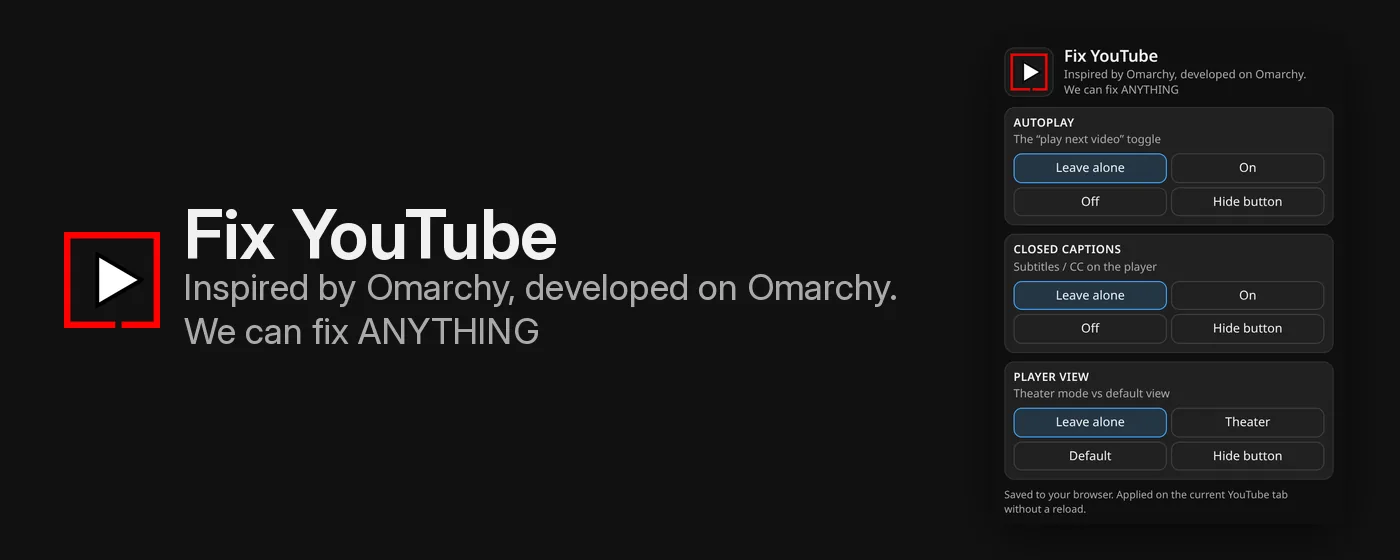
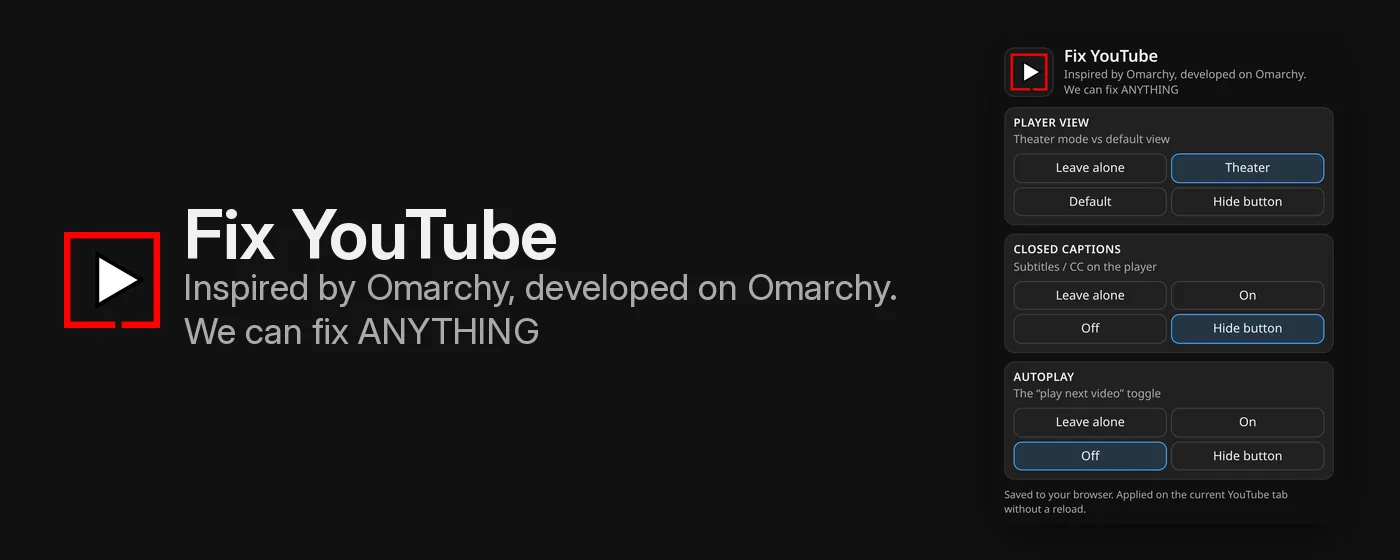
Put Fix YouTube in the top row and widen the project page
Condense the home-page hero to three category cards, with Browser
Extensions as the third and #extensions on that card, and drop the
duplicate lower section. Widen and center the Fix YouTube text column
so it balances the hero and feature images, and swap in the new
theater-first marquee.

Changed region(s): [[0.7064, 0.6679, 0.9214, 0.85], [0.7064, 0.4857, 0.9521, 0.6375], [0.7064, 0.2125, 0.9521, 0.3643]]

diff --git a/index.html b/index.html
@@ -93,15 +93,15 @@
 
   .split-hero {
     display: grid;
-    grid-template-columns: 1fr 1fr;
-    gap: 20px;
+    grid-template-columns: repeat(3, minmax(0, 1fr));
+    gap: 16px;
     padding: 48px 0 24px;
   }
   .hero-panel {
     background: var(--panel);
     border: 1px solid var(--border);
     border-radius: 6px;
-    padding: 28px 26px 24px;
+    padding: 22px 18px 18px;
     display: flex;
     flex-direction: column;
     min-width: 0;
@@ -112,25 +112,30 @@
     border-color: rgba(232, 176, 120, 0.38);
     box-shadow: 0 12px 40px rgba(0, 0, 10, 0.25), 0 16px 36px rgba(224, 120, 40, 0.06);
   }
-  .prompt { color: var(--dim); font-size: 0.82rem; margin: 0 0 14px; }
+  .hero-panel.extensions {
+    border-color: rgba(224, 107, 107, 0.4);
+    box-shadow: 0 12px 40px rgba(0, 0, 10, 0.25), 0 16px 36px rgba(224, 80, 80, 0.06);
+  }
+  .prompt { color: var(--dim); font-size: 0.78rem; margin: 0 0 12px; }
   .prompt b { color: var(--accent); font-weight: 500; }
   .hero-panel.ai .prompt b { color: var(--warm2); }
+  .hero-panel.extensions .prompt b { color: #ffb3b3; }
   .hero-panel h2 {
     font-family: var(--display);
     font-weight: 700;
-    font-size: clamp(1.85rem, 4.2vw, 2.7rem);
-    line-height: 1.08;
-    margin: 0 0 14px;
+    font-size: clamp(1.25rem, 2.1vw, 1.85rem);
+    line-height: 1.12;
+    margin: 0 0 10px;
     text-shadow: 0 0 18px rgba(130, 251, 156, 0.18);
   }
   .hero-panel.ai h2 { text-shadow: 0 0 18px rgba(224, 146, 74, 0.22); }
+  .hero-panel.extensions h2 { text-shadow: 0 0 18px rgba(224, 107, 107, 0.22); }
   .hero-panel .lede {
     color: var(--dim);
-    font-size: 0.98rem;
+    font-size: 0.88rem;
     margin: 0;
-    max-width: 42ch;
   }
-  .cta { display: flex; gap: 12px; flex-wrap: wrap; margin-top: auto; padding-top: 26px; }
+  .cta { display: flex; gap: 12px; flex-wrap: wrap; margin-top: auto; padding-top: 18px; }
   .btn {
     display: inline-block;
     padding: 11px 20px;
@@ -150,6 +155,12 @@
     border-color: var(--warm);
   }
   .btn.warm:hover { box-shadow: 0 0 16px rgba(224, 146, 74, 0.4); }
+  .btn.hot {
+    background: #e06b6b;
+    color: #120000;
+    border-color: #e06b6b;
+  }
+  .btn.hot:hover { box-shadow: 0 0 16px rgba(224, 107, 107, 0.4); }
 
   section { padding: 48px 0; }
   #omarchy, #ai, #extensions, #hangar, #about { scroll-margin-top: 16px; }
@@ -167,9 +178,6 @@
     display: grid;
     grid-template-columns: repeat(auto-fit, minmax(300px, 1fr));
     gap: 20px;
-  }
-  .tools.single {
-    grid-template-columns: repeat(auto-fill, minmax(300px, 1fr));
   }
   .tool {
     background: var(--panel);
@@ -471,8 +479,13 @@
   footer a { color: var(--dim); }
   footer a:hover { color: var(--accent); }
 
-  @media (max-width: 800px) {
+  @media (max-width: 900px) {
     .split-hero { grid-template-columns: 1fr; padding: 32px 0 8px; }
+    .hero-panel h2 { font-size: clamp(1.5rem, 6vw, 2.1rem); }
+    .hero-panel .lede { font-size: 0.95rem; }
+  }
+
+  @media (max-width: 800px) {
     .caravan-spot {
       grid-template-columns: minmax(0, 1fr);
       grid-template-areas:
@@ -535,6 +548,14 @@
       <p class="lede">Run AI models on your own Macs, together. Open source, MLX and GGUF — that’s Caravan.</p>
       <div class="cta">
         <a class="btn warm" href="#ai">See Caravan</a>
+      </div>
+    </div>
+    <div class="hero-panel extensions" id="extensions">
+      <div class="prompt"><b>bren@omarchy</b> ~ $ ls ~/extensions</div>
+      <h2>Browser Extensions</h2>
+      <p class="lede">YouTube won’t stay in theater mode, and then the comments are right in your face. Fix YouTube keeps the wide player.</p>
+      <div class="cta">
+        <a class="btn hot" href="fix-youtube.html">See Fix YouTube</a>
       </div>
     </div>
   </header>
@@ -633,33 +654,6 @@ omarchy bar put bren.flyover --section right</pre><button class="copy" type="but
       <div class="cmd"><pre>(set -o pipefail; curl -fsSL https://raw.githubusercontent.com/linuxbren/caravan/caravan-v3-mlx-split/install | bash)</pre><button class="copy" type="button">copy</button></div>
       <p class="install-note">Paste that in Terminal on an Apple Silicon Mac running macOS 14 or newer. <a href="caravan.html#install">Full install steps →</a></p>
     </article>
-  </section>
-
-
-  <section id="extensions">
-    <div class="label">browser extensions · 1</div>
-
-    <div class="tools single">
-
-      <article class="tool">
-        <div class="shot window">
-          <div class="titlebar"><i></i><i></i><i></i><span>Fix YouTube — popup</span></div>
-          <img src="assets/fix-youtube/screenshot-theater.webp" width="1200" height="750" alt="Fix YouTube popup next to the headline Always theater mode, with Player view set to Theater and the other controls left alone">
-        </div>
-        <div class="tool-head">
-          <h3><a class="card-link" href="fix-youtube.html">Fix YouTube</a></h3>
-          <span class="chip">Chrome extension</span>
-        </div>
-        <p>YouTube won’t stay in theater mode, and then the comments are right in your face. This little extension keeps the wide player. It can also handle captions and autoplay — leave them alone, force them on or off, or hide the button. No tracking, MIT licensed.</p>
-        <p class="note">Not on the Chrome Web Store yet. Load it unpacked from the repo for now.</p>
-        <div class="links">
-          <a href="fix-youtube.html">page →</a>
-          <a href="https://github.com/linuxbren/fix-youtube" target="_blank" rel="noopener">source →</a>
-          <a href="https://linuxbren.github.io/fix-youtube/privacy.html">privacy →</a>
-        </div>
-      </article>
-
-    </div>
   </section>
 
 

diff --git a/fix-youtube.html b/fix-youtube.html
@@ -108,6 +108,10 @@
   .label::before { content: "# "; color: var(--border); }
 
   header.hero { padding: 48px 0 24px; }
+  .hero-copy {
+    max-width: 54rem;
+    margin-inline: auto;
+  }
   .prompt { color: var(--dim); font-size: 0.82rem; margin: 0 0 14px; }
   .prompt b { color: var(--accent); font-weight: 500; }
   .hero-title {
@@ -135,15 +139,13 @@
   }
   .tagline {
     color: var(--accent);
-    font-size: 1.02rem;
+    font-size: 1.08rem;
     margin: 0 0 12px;
-    max-width: 46ch;
   }
   .lede {
     color: var(--dim);
-    font-size: 0.98rem;
+    font-size: 1.02rem;
     margin: 0;
-    max-width: 58ch;
   }
   .meta-row {
     display: flex;
@@ -224,8 +226,8 @@
     font-size: 0.88rem;
   }
   .how {
-    margin: 22px 0 0;
-    max-width: 70ch;
+    margin: 22px auto 0;
+    max-width: 54rem;
     color: var(--dim);
   }
 
@@ -339,6 +341,7 @@
   </nav>
 
   <header class="hero">
+    <div class="hero-copy">
     <div class="prompt"><b>bren@omarchy</b> ~ $ ls ~/extensions</div>
     <div class="hero-title">
       <img src="assets/fix-youtube/icon.svg" width="56" height="56" alt="">
@@ -357,8 +360,9 @@
       <a class="btn line" href="https://github.com/linuxbren/fix-youtube" target="_blank" rel="noopener">GitHub</a>
       <a class="btn line" href="https://linuxbren.github.io/fix-youtube/privacy.html">Privacy</a>
     </div>
+    </div>
     <div class="hero-art">
-      <img src="assets/fix-youtube/marquee.webp" width="1400" height="560" alt="Fix YouTube logo and tagline next to the extension popup for theater mode, captions, and autoplay">
+      <img src="assets/fix-youtube/marquee.webp" width="1400" height="560" alt="Fix YouTube logo and tagline next to the extension popup, with Player view set to Theater, Closed captions set to Hide button, and Autoplay set to Off">
     </div>
   </header>
 

diff --git a/README.md b/README.md
@@ -27,7 +27,8 @@ covers websites only; other code waits for his OK before pushing.)
 ## Layout ("A + C combo", Hackerman theme)
 
 - **Nav:** `linuxbren ✈` wordmark; tools · hangar · about · github ↗.
-- **Hero:** prompt line, h1 "Retro tools for Omarchy.", lede, two buttons.
+- **Hero:** three condensed category cards in a row (Retro Omarchy, Local AI,
+  Browser Extensions) on desktop, stacking on smaller screens.
 - **Toolbox (`#tools`):** a three-column grid (`auto-fit, minmax(300px, 1fr)`;
   one column on phones) of equal cards, in this order: console-places, flyover,
   flyover-pill. Each card leads with its own kind of shot:
@@ -41,9 +42,9 @@ covers websites only; other code waits for his OK before pushing.)
 - **Caravan (`#ai`):** its own spotlight section (not in the Omarchy
   toolbox), linking to `caravan.html`. Wide card with a 16:9 Campfire still
   and an amber accent, so it sits apart from the green toolbox cards.
-- **Browser Extensions (`#extensions`):** its own section, styled like the
-  toolbox, currently one card for Fix YouTube linking to `fix-youtube.html`.
-  Assets live in `assets/fix-youtube/`.
+- **Browser Extensions (`#extensions`):** the third hero card, linking to
+  `fix-youtube.html`. The `#extensions` anchor is on that card so the nav
+  still works. Assets live in `assets/fix-youtube/`.
 - **In the hangar (`#hangar`):** dashed "soon" cards for upcoming projects.
 - **About (`#about`)** strip with interest chips, then the footer.
 
